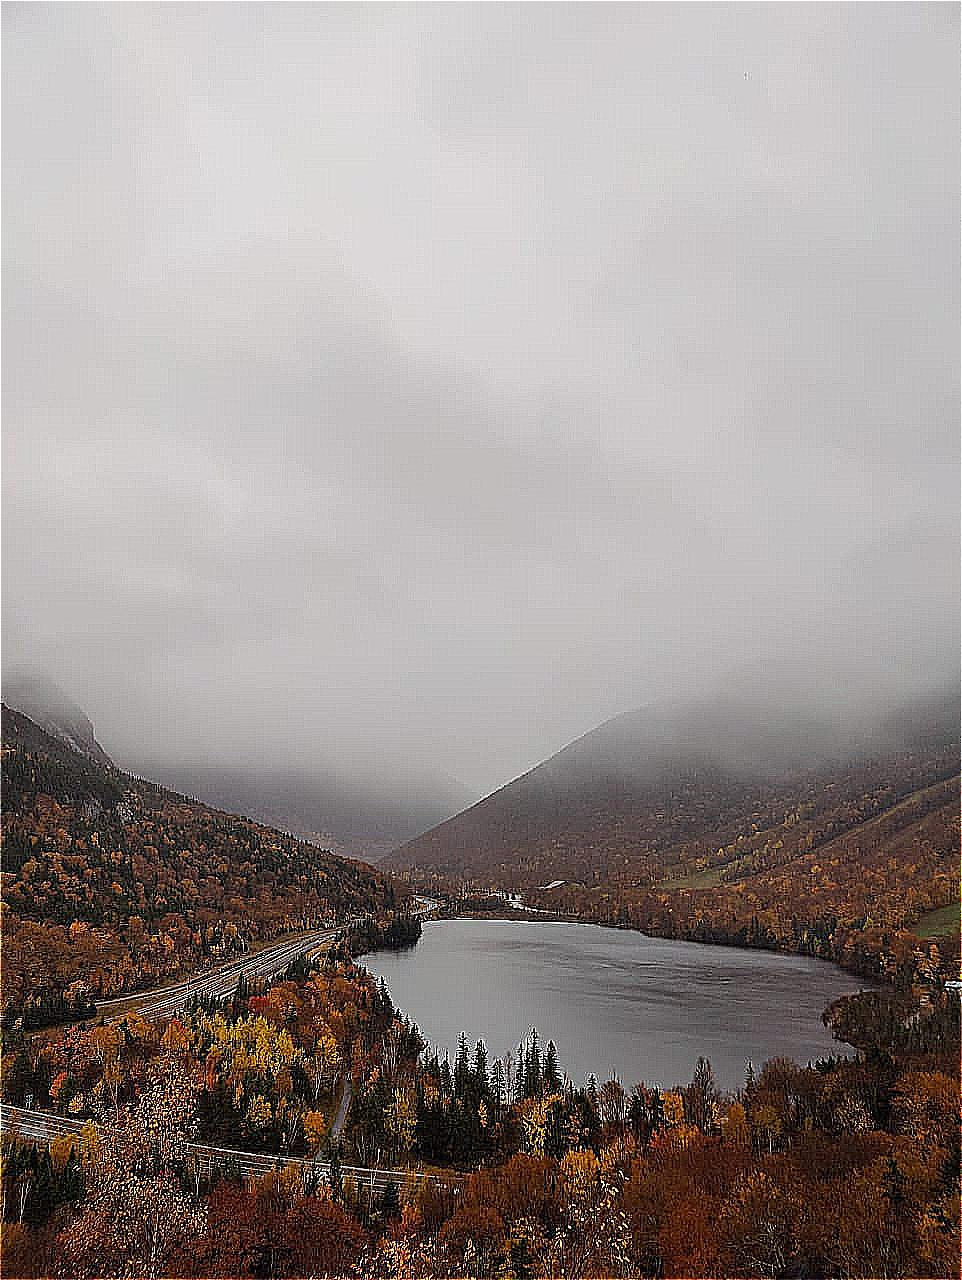
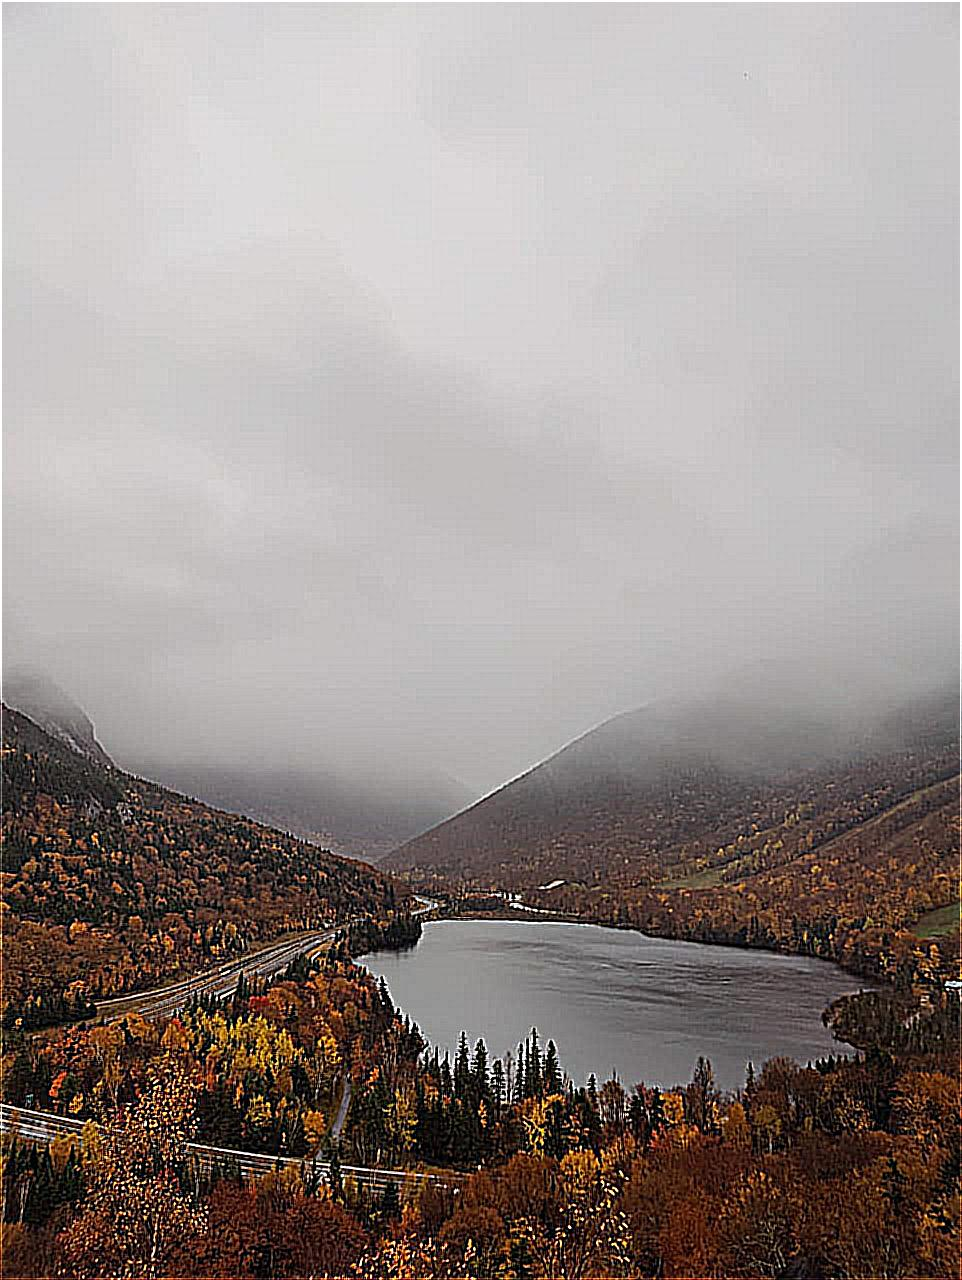
Normalized Sharpen Kernel

Changed region(s): [[0.0, 0.0, 1.0, 1.0], [0.499, 0.5938, 0.5613, 0.625], [0.7484, 0.75, 0.7796, 0.7812]]

diff --git a/test/ImageTest.java b/test/ImageTest.java
@@ -544,9 +544,9 @@ public class ImageTest {
   public void test_sharpen_PPM() {
     String testFilePathPPM = "test/unitImages/bro.ppm";
     int[][][] expectedValues = {
-        {{159, 159, 0}, {159, 159, 63}, {0, 63, 63}},
-        {{255, 159, 63}, {255, 255, 255}, {63, 159, 255}},
-        {{159, 63, 63}, {159, 159, 159}, {63, 63, 159}}
+        {{255, 255, 0}, {255, 255, 255}, {0, 255, 255}},
+        {{255, 255, 255}, {255, 255, 255}, {255, 255, 255}},
+        {{255, 255, 255}, {255, 255, 255}, {255, 255, 255}}
     };
 
     try {
@@ -1326,9 +1326,9 @@ public class ImageTest {
   public void test_sharpen_PNG() {
     String testFilePathPNG = "test/unitImages/bro.png";
     int[][][] expectedValues = {
-        {{159, 159, 0}, {255, 159, 63}, {159, 63, 63}},
-        {{159, 159, 63}, {255, 255, 255}, {159, 159, 159}},
-        {{0, 63, 63}, {63, 159, 255}, {63, 63, 159}}
+        {{255, 255, 0}, {255, 255, 255}, {255, 255, 255}},
+        {{255, 255, 255}, {255, 255, 255}, {255, 255, 255}},
+        {{0, 255, 255}, {255, 255, 255}, {255, 255, 255}}
     };
 
     try {
@@ -2105,9 +2105,9 @@ public class ImageTest {
   public void test_sharpen_JPG() {
     String testFilePathJPG = "test/unitImages/bro.jpg";
     int[][][] expectedValues = {
-        {{188, 107, 111}, {247, 147, 172}, {126, 76, 93}},
-        {{188, 137, 146}, {247, 255, 255}, {126, 179, 191}},
-        {{50, 36, 38}, {102, 160, 167}, {23, 96, 96}}
+        {{255, 255, 255}, {255, 255, 255}, {255, 255, 255}},
+        {{255, 255, 255}, {255, 255, 255}, {255, 255, 255}},
+        {{202, 144, 152}, {255, 255, 255}, {95, 255, 255}}
     };
 
     try {

diff --git a/src/imeprogram/model/Image.java b/src/imeprogram/model/Image.java
@@ -456,6 +456,21 @@ public class Image implements IImage {
         {-1.0/8, -1.0/8, -1.0/8, -1.0/8, -1.0/8}
     };
 
+    // Calculate the sum of the kernel values
+    double sum = 0;
+    for (double[] doubles : kernel) {
+      for (double aDouble : doubles) {
+        sum += aDouble;
+      }
+    }
+
+    // Normalize the kernel
+    for (int i = 0; i < kernel.length; i++) {
+      for (int j = 0; j < kernel[i].length; j++) {
+        kernel[i][j] /= sum;
+      }
+    }
+
     for (int i = 0; i < height; i++) {
       for (int j = 0; j < width; j++) {
         double r = 0;
@@ -483,7 +498,7 @@ public class Image implements IImage {
         sharpenedImage[i][j][2] = (int) b;
       }
     }
-
+    System.out.println(Arrays.deepToString(sharpenedImage));
     return new Image(sharpenedImage, width, height);
   }
 
